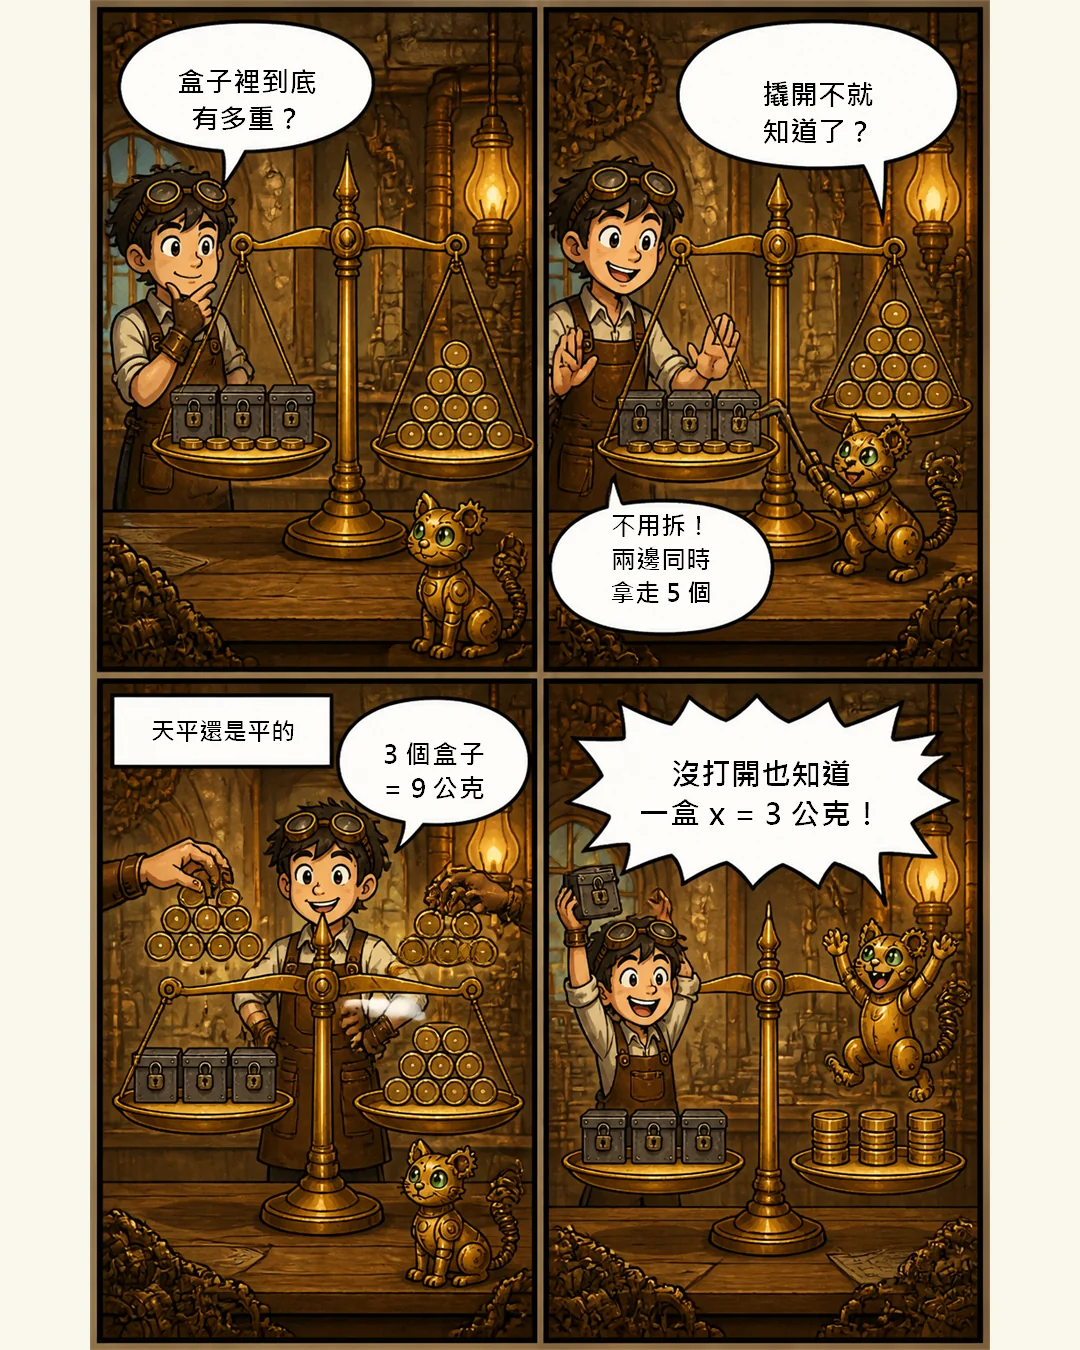
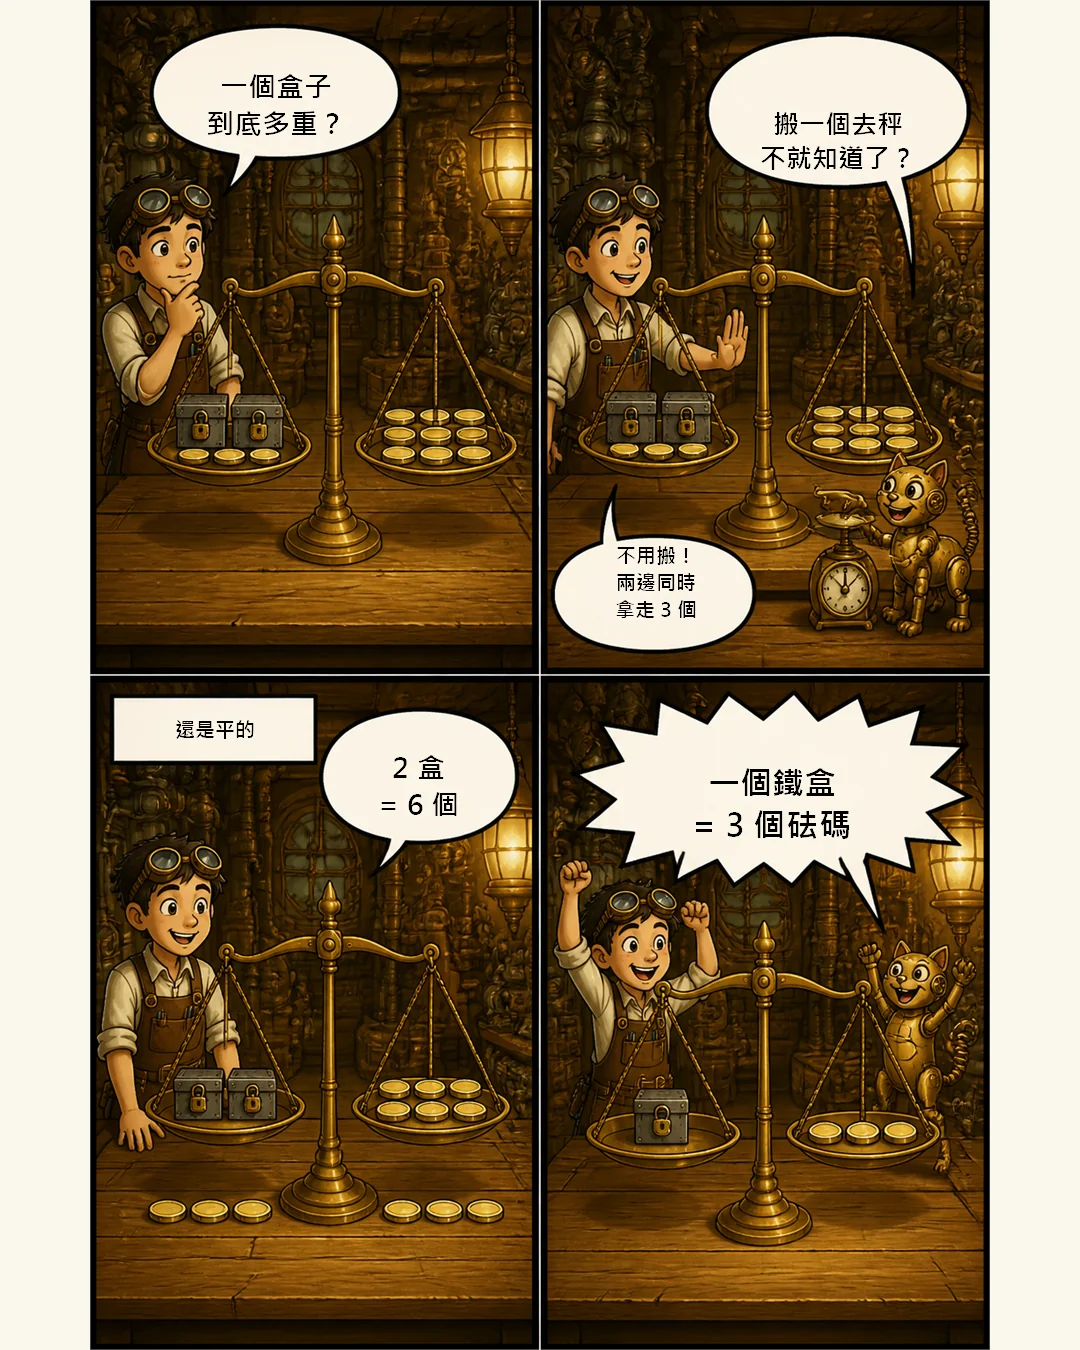
fix: 依回饋修訂 1-3-2 的敘述與課前漫畫
文字：
- 重點 1「分母有未知數要小心」前後對不起來，改為「未知數在分子還是在
  分母，差很多」，並補上 6/x=2 不是一元一次方程式的對照
- 重點 2「先乘後加要看清楚」改為「加減乘除的順序要看清楚」
- 重點 3「算完要下結論」補上承接前一點的說明（左邊 7、右邊 -19）
- 重點 4、6 的「把係數變成 1」改為「把 x 項的係數變成 1」
- 總結卡「兩個經典錯誤」補成兩條各帶一個例子
- 總結卡刪掉「移項移到懷疑人生」那句

漫畫：整張重生，不再拼接
- 貓的動機改成想搬一個盒子去小秤單獨秤（原本撬開盒子不合理，
  鐵盒本身有重量）
- 末格改由天平本身給答案：左盤 1 個鐵盒、右盤 3 個砝碼，盒子始終鎖著
- 砝碼一律平放、同直徑同厚度，鐵盒統一為同一款，四格同視角
- 情境數字改為 2x+3=9（結論仍是 x=3）：14 顆砝碼超出生圖模型的計數
  能力，六輪都畫不準；改用 9 以內的數量後四格數量全部正確
- 導言與 alt 同步改寫，並點出課本的 3x+5=14 是同一回事

diff --git a/materials/1-3-2/index.html b/materials/1-3-2/index.html
@@ -63,10 +63,10 @@
         </h2>
         <div style="display: flex; flex-direction: column; align-items: center; gap: 1.5rem;">
           <p style="color: #cbd5e1; font-size: 1.05rem; line-height: 1.6; text-align: center; max-width: 800px; margin: 0 auto;">
-            工房裡的黃銅天平已經平了：左盤放著<strong style="color:#fcd34d">三個上鎖的鐵盒</strong>和 \(5\) 個砝碼，右盤是 \(14\) 個砝碼。鐵盒鎖著，一個盒子有多重<strong style="color:#fcd34d">沒有人知道</strong>——那就先叫它 \(x\)。機械貓想拿撬棒把盒子撬開，小發明家攔住了牠：<strong style="color:#fcd34d">「不用拆，兩邊同時拿走 \(5\) 個就好。」</strong>兩邊各少 \(5\) 個，天平還是平的，剩下三個盒子對九個砝碼；再把九個砝碼分成三堆，一個盒子正好對三個。盒子從頭到尾沒打開，答案卻出來了：\(x = 3\)。這一節要學的，就是這台天平背後的規則。
+            工房裡的黃銅天平已經平了：左盤放著<strong style="color:#fcd34d">兩個上鎖的鐵盒</strong>和 \(3\) 個砝碼，右盤是 \(9\) 個砝碼。鐵盒鎖著，一個盒子有多重<strong style="color:#fcd34d">沒有人知道</strong>——那就先叫它 \(x\)，這台天平於是成了一條方程式：\(2x+3=9\)。機械貓伸手想搬一個盒子去旁邊的小秤單獨秤，小發明家攔住了牠：<strong style="color:#fcd34d">「不用搬，兩邊同時拿走 \(3\) 個就好。」</strong>兩邊各少 \(3\) 個，天平還是平的，剩下兩個盒子對六個砝碼；再把兩邊都只留一半，一個鐵盒正好對三個砝碼。盒子沒有離開天平、也沒有打開，答案就出來了：\(x = 3\)。課本裡的 \(3x+5=14\) 是同一回事，這一節要學的，就是這台天平背後的規則。
           </p>
           <div class="illustration-container" style="max-width: 600px; width: 100%; border: 1px solid rgba(255,255,255,0.08); box-shadow: 0 8px 32px rgba(0,0,0,0.4); border-radius: 20px; overflow: hidden; background: rgba(15, 23, 42, 0.4);">
-            <img src="motivation_comic.webp" alt="蒸汽龐克黃銅天平工房風四格漫畫：天平左盤是三個上鎖鐵盒加五個砝碼、右盤十四個砝碼；機械貓想撬開盒子被小發明家攔下，改成兩邊同時拿走五個砝碼，天平仍然平衡，最後九個砝碼分成三堆，得出一個盒子等於三公克" style="width: 100%; height: auto; display: block; transition: transform 0.3s;" class="comic-img">
+            <img src="motivation_comic.webp" alt="蒸汽龐克黃銅天平工房風四格漫畫：天平左盤是兩個上鎖鐵盒加三個砝碼、右盤九個砝碼；機械貓想搬一個盒子去小秤單獨秤，被小發明家攔下，改成兩邊同時拿走三個砝碼，天平仍然平衡，剩下兩個鐵盒對六個砝碼，最後兩邊各留一半，得出一個鐵盒等於三個砝碼" style="width: 100%; height: auto; display: block; transition: transform 0.3s;" class="comic-img">
           </div>
         </div>
       </section>
@@ -93,7 +93,7 @@
                 </ul>
               </li>
               <li><strong>用哪個字母無所謂</strong>：\(4x-5=17\)、\(2y+8=0\) 都是一元一次方程式。看的是「幾種」和「幾次」，不是「用什麼字母」。</li>
-              <li><strong>分母有未知數要小心</strong>：\(\frac{x}{6}=2\) 就是 \(x \div 6=\frac{1}{6}x\)，\(x\) 仍是一次，<strong>是</strong>一元一次方程式。</li>
+              <li><strong>未知數在分子還是在分母，差很多</strong>：\(\frac{x}{6}=2\) 的 \(x\) 在<strong>分子</strong>，就是 \(x \div 6=\frac{1}{6}x\)，\(x\) 仍是一次，<strong>是</strong>一元一次方程式；但 \(\frac{6}{x}=2\) 的 \(x\) 在<strong>分母</strong>，它不是一次式，<strong>不是</strong>一元一次方程式。看到分數先看清楚 \(x\) 站在哪一層。</li>
               <li><strong>沒有未知數的等式不是方程式</strong>：\(5+3=8\) 只是一個算完的算式，沒有東西可以解。</li>
             </ul>
 
@@ -207,7 +207,7 @@
               </li>
               <li><strong>關鍵字對照</strong>：大／多 → 加；小／少 → 減；倍 → 乘；分成 \(n\) 等分 → 除以 \(n\)。</li>
               <li><strong>課本例題</strong>：媽媽買了 \(6\) 盒牛奶，每盒 \(x\) 元，另外買了 \(120\) 元的麵包，結帳共付 \(300\) 元。\(6\) 盒牛奶是 \(6x\) 元，加上麵包 \(120\) 元，總共 \(300\) 元，得 \(6x+120=300\)。</li>
-              <li><strong>先乘後加要看清楚</strong>：「比 \(c\) 的 \(2\) 倍多 \(10\) 的數是 \(6\)」是 \(2c+10=6\)；如果寫成 \(2(c+10)=6\) 就變成「比 \(c\) 多 \(10\) 之後再取 \(2\) 倍」，意思完全不同。</li>
+              <li><strong>加減乘除的順序要看清楚</strong>：「比 \(c\) 的 \(2\) 倍多 \(10\) 的數是 \(6\)」是 \(2c+10=6\)；如果寫成 \(2(c+10)=6\) 就變成「比 \(c\) 多 \(10\) 之後再取 \(2\) 倍」，意思完全不同。</li>
               <li><strong>「每一份都…」要用括號包起來</strong>。這是上一節列式的老規矩，到了方程式一樣適用。</li>
               <li><strong>年齡問題的小陷阱</strong>：\(n\) 年前（後），<strong>每個人都要一起加減</strong>。媽媽今年 \(36\) 歲、意紋今年 \(x\) 歲，三年前媽媽的年齡是意紋的 \(3\) 倍，要寫成 \(36-3=3(x-3)\)，不是 \(36-3=3x-3\)。</li>
             </ul>
@@ -319,7 +319,7 @@
               <li><strong>什麼是解方程式</strong>：求出未知數所代表的數的<strong>過程</strong>，稱為解方程式。</li>
               <li><strong>檢驗的方法就是代入</strong>。以 \(3x+5=14\) 為例，把 \(x\) 逐一代進去算左邊的值：\(x=1\) 得 \(8\)，\(x=2\) 得 \(11\)，\(x=3\) 得 \(14\)。只有 \(x=3\) 讓左右兩邊都是 \(14\)，所以 \(3\) 是解，\(1\) 和 \(2\) 都不是。</li>
               <li><strong>代入負數一定要加括號</strong>：檢驗 \(x=-2\) 是不是 \(-2x+3=-19\) 的解，要寫成 \((-2) \times (-2)+3=7\)，<strong>兩個運算符號或性質符號不可以相鄰</strong>。</li>
-              <li><strong>算完要下結論</strong>：\(7 \neq -19\)，所以 \(-2\) 不是解。檢驗的結果只有「是」或「不是」兩種。</li>
+              <li><strong>算完要下結論</strong>：承上一點，把 \(x=-2\) 代進去以後，等號<strong>左邊</strong>算出來是 \(7\)、<strong>右邊</strong>是 \(-19\)，兩邊不相等，所以 \(-2\) <strong>不是</strong> \(-2x+3=-19\) 的解。檢驗的結果只有「是」或「不是」兩種，<strong>算完一定要把這句結論寫出來</strong>。</li>
               <li><strong>為什麼不能一直用代入法</strong>：課本的 \(75x+84(30-x)=1980\)，光靠一個一個試，過程繁瑣又不容易試中。<strong>我們需要一套一定找得到解的方法</strong>——那就是下一個重點的等量公理。</li>
             </ul>
 
@@ -429,7 +429,7 @@
               <li><strong>等量除法公理</strong>：\(2x=4\) 的兩邊同時只留下一半，天平仍然平衡，得 \(\frac{2x}{2}=\frac{4}{2}\)。</li>
               <li><strong>加減負數也成立</strong>：加上負數等於減去正數（\(3x+(-5)=3x-5\)），減去負數等於加上正數（\(3x-(-5)=3x+5\)），所以兩邊<strong>同加或同減一個負數</strong>，等式一樣成立；同乘、同除以一個負數也一樣。</li>
               <li><strong>唯一的限制：除數不可為 \(0\)</strong>。所以「若 \(a \times c=b \times c\)，則 \(a=b\)」<strong>是錯的</strong>——當 \(c=0\) 時，\(a\)、\(b\) 是什麼都成立，不能同除以 \(c\)。</li>
-              <li><strong>解方程式的策略</strong>：用等量公理<strong>先把常數項清掉</strong>，再<strong>把係數變成 1</strong>，左邊只剩一個 \(x\) 時，右邊就是答案。</li>
+              <li><strong>解方程式的策略</strong>：用等量公理<strong>先把常數項清掉</strong>，再<strong>把 \(x\) 項的係數變成 1</strong>，左邊只剩一個 \(x\) 時，右邊就是答案。</li>
             </ul>
 
             <div class="table-scroll">
@@ -654,7 +654,7 @@
               <li><strong>有分數就先清分母</strong>：兩邊<strong>同乘所有分母的最小公倍數</strong>（等量乘法公理）。例如 \(\frac{1}{3}x=\frac{7}{6}-\frac{1}{4}x\) 兩邊同乘 \(12\)，得 \(4x=14-3x\)。</li>
               <li><strong>最容易錯的一步：常數項也要乘</strong>。\(\frac{7x}{5}-\frac{4x-5}{3}=1\) 兩邊同乘 \(15\) 時，右邊的 \(1\) 也要變成 \(15\)，不是還留著 \(1\)。<strong>「兩邊同乘」是整條式子的每一項都乘，不是只乘有分母的那幾項</strong>。</li>
               <li><strong>分子是多項式時要加括號</strong>：\(\frac{x-3}{2} \times 6=3(x-3)=3x-9\)，如果漏了括號寫成 \(3x-3\) 就錯了。</li>
-              <li><strong>整理好之後，剩下的就是移項</strong>：含 \(x\) 的往一邊、常數往另一邊，合併同類項，最後把係數變成 \(1\)。</li>
+              <li><strong>整理好之後，剩下的就是移項</strong>：含 \(x\) 的往一邊、常數往另一邊，合併同類項，最後把 \(x\) 項的係數變成 \(1\)。</li>
               <li><strong>解的檢查</strong>：答案代回<strong>原來那條有括號、有分數的方程式</strong>，才算真的驗算過。</li>
             </ul>
 
@@ -760,7 +760,7 @@
               <li><strong>兩邊都有未知數</strong>：含 \(x\) 的集中一邊、常數集中另一邊，再合併同類項。</li>
               <li><strong>有括號</strong>：先去括號，括號前是負號時<strong>裡面每一項都變號</strong>；多層括號<strong>由內而外</strong>。</li>
               <li><strong>有分數</strong>：兩邊同乘分母的<strong>最小公倍數</strong>，<strong>每一項都要乘到</strong>，分子是多項式時<strong>要加括號</strong>。</li>
-              <li><strong>兩個經典錯誤</strong>：移項忘了變號；由 \(6x=3\) 誤寫成 \(x=6 \div 3\)（正確是 \(x=\frac{3}{6}=\frac{1}{2}\)）。</li>
+              <li><strong>兩個經典錯誤</strong>：一、<strong>移項忘了變號</strong>——由 \(x+5=2\) 誤寫成 \(x=2+5\)（正確是 \(x=2-5=-3\)）；二、<strong>把除法寫反了</strong>——由 \(6x=3\) 誤寫成 \(x=6 \div 3\)（正確是 \(x=\frac{3}{6}=\frac{1}{2}\)）。</li>
             </ul>
           </div>
 
@@ -771,7 +771,7 @@
               <p>漫畫裡的天平左盤是三個鐵盒加五個砝碼、右盤十四個砝碼，寫成數學就是 \(3x+5=14\)。小發明家做的第一件事是<strong>兩邊同時拿走五個砝碼</strong>——這就是<strong>等量減法公理</strong>，得到 \(3x=9\)；第二件事是<strong>把兩邊都分成三等分</strong>，這是<strong>等量除法公理</strong>，得到 \(x=3\)。</p>
               <p>整個過程只做了兩個動作，而且<strong>兩個動作都是「兩邊一起做」</strong>。天平從頭到尾沒有歪過，這正是解方程式一定會成功的理由：每一行式子的解都和上一行完全一樣，只是長得越來越簡單。</p>
               <h5><i class="fa-solid fa-bolt"></i> 為什麼還要學移項</h5>
-              <p>寫熟之後，\(3x+5=14\) 的中間那行 \(3x+5-5=14-5\) 每次都要寫實在太慢，於是我們直接寫成 \(3x=14-5\)——這就是<strong>移項</strong>。移項不是另一套規則，<strong>它只是等量公理省略了中間一行的寫法</strong>。所以當你移項移到懷疑人生時，隨時可以退回去問自己一句：「我剛才對兩邊做了同一件事嗎？」</p>
+              <p>寫熟之後，\(3x+5=14\) 的中間那行 \(3x+5-5=14-5\) 每次都要寫實在太慢，於是我們直接寫成 \(3x=14-5\)——這就是<strong>移項</strong>。移項不是另一套規則，<strong>它只是等量公理省略了中間一行的寫法</strong>。</p>
               <h5><i class="fa-solid fa-clock-rotate-left"></i> 等號是誰發明的</h5>
               <p>方程式的核心是等號，但等號 \(=\) 其實很年輕。西元 \(1557\) 年，威爾斯數學家雷科德在著作裡首次使用兩條平行線代表相等，理由很單純：<strong>沒有兩樣東西比兩條等長的平行線更相等</strong>。在那之前，人們得用一整句拉丁文寫「等於」。至於解方程式本身則老得多——中國《九章算術》的第八章就叫〈方程〉，古埃及的紙草書裡也有「某數加上它的七分之一等於十九」這類題目，用的方法叫「試位法」，其實就是課本裡那張代入表格的祖先。</p>
             </div>
